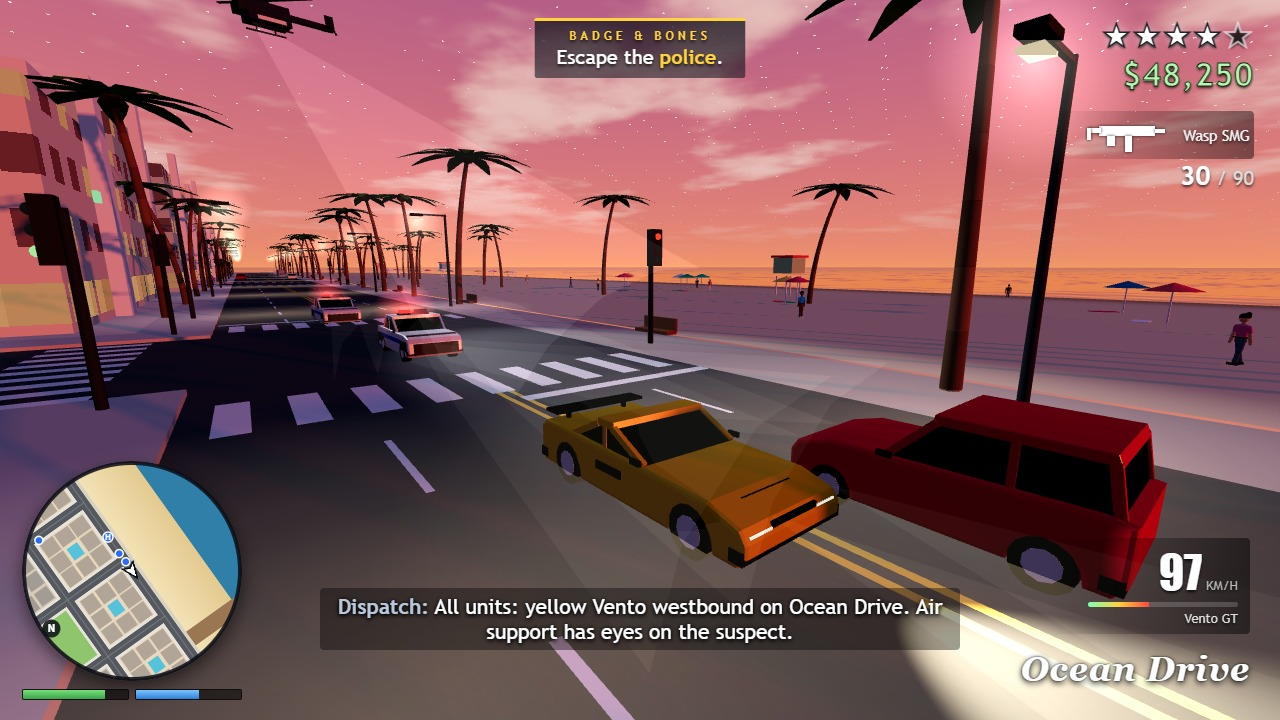
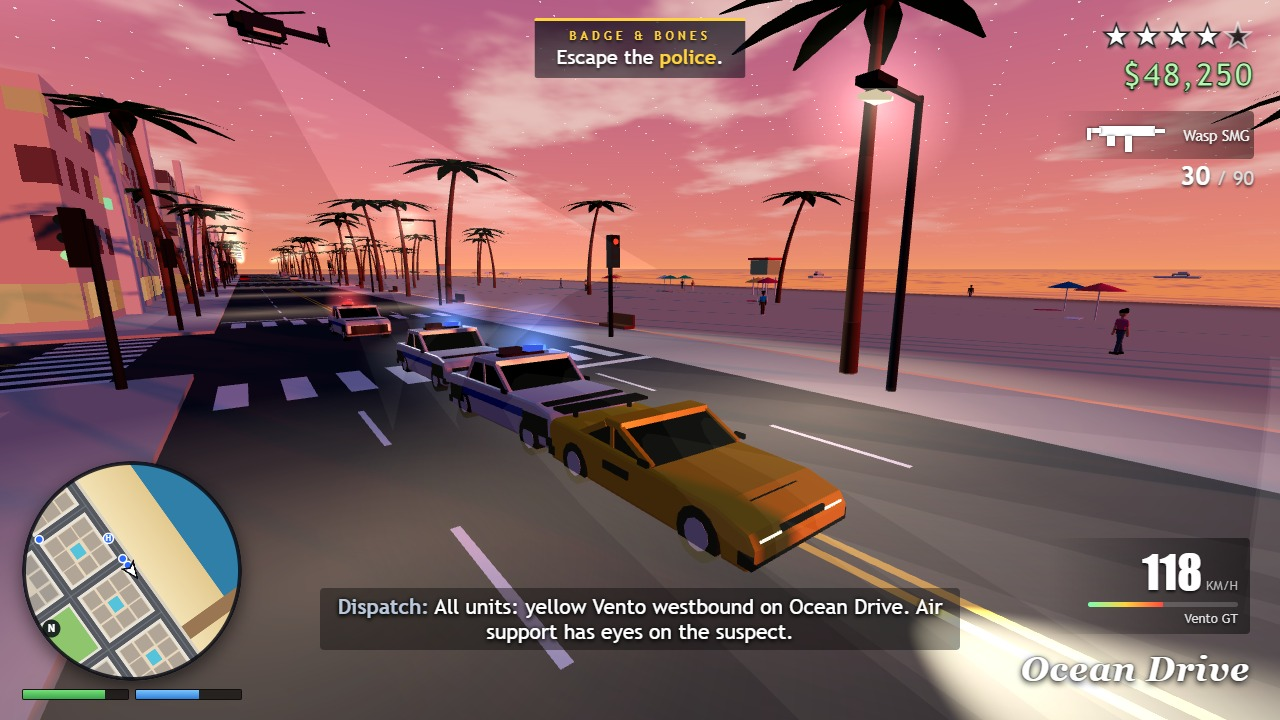
Closer pursuit on the cover shot; regenerate screenshots

diff --git a/game/src/shots/screenshotScenes.js b/game/src/shots/screenshotScenes.js
@@ -50,9 +50,9 @@ function chase(game, stepDt) {
   game.ui.hud.clearMessages();
   game.wanted.setLevel(4, 30, 298);
   const cops = [
-    [44, 297.8],
-    [57, 302.2],
-    [72, 298.2],
+    [41, 297.6],
+    [50, 302.0],
+    [63, 298.0],
   ];
   for (const [x, z] of cops) {
     const c = game.police.spawnPursuitCar();
@@ -64,8 +64,8 @@ function chase(game, stepDt) {
   // Traffic both ways on Ocean Drive.
   laneCar(game, 'marlin', -70, 5.25, true, 0x2c3e50, 11);
   laneCar(game, 'coaster', -140, 1.9, true, 0xf1f1f1, 10);
-  laneCar(game, 'pip', -40, 1.9, false, 0xf94144, 11);
-  laneCar(game, 'cab', -95, 5.25, false, 0xffc300, 12);
+  laneCar(game, 'pip', -150, 1.9, false, 0xf94144, 11);
+  laneCar(game, 'cab', -70, 5.25, false, 0xffc300, 12);
   laneCar(game, 'dune', -160, 1.9, false, 0x6b705c, 11);
   laneCar(game, 'marlin', 120, 5.25, false, 0xecf0f1, 11);
   for (let i = 0; i < 14; i += 1) game.pedSystem.spawnCivilianNear(car.position);
